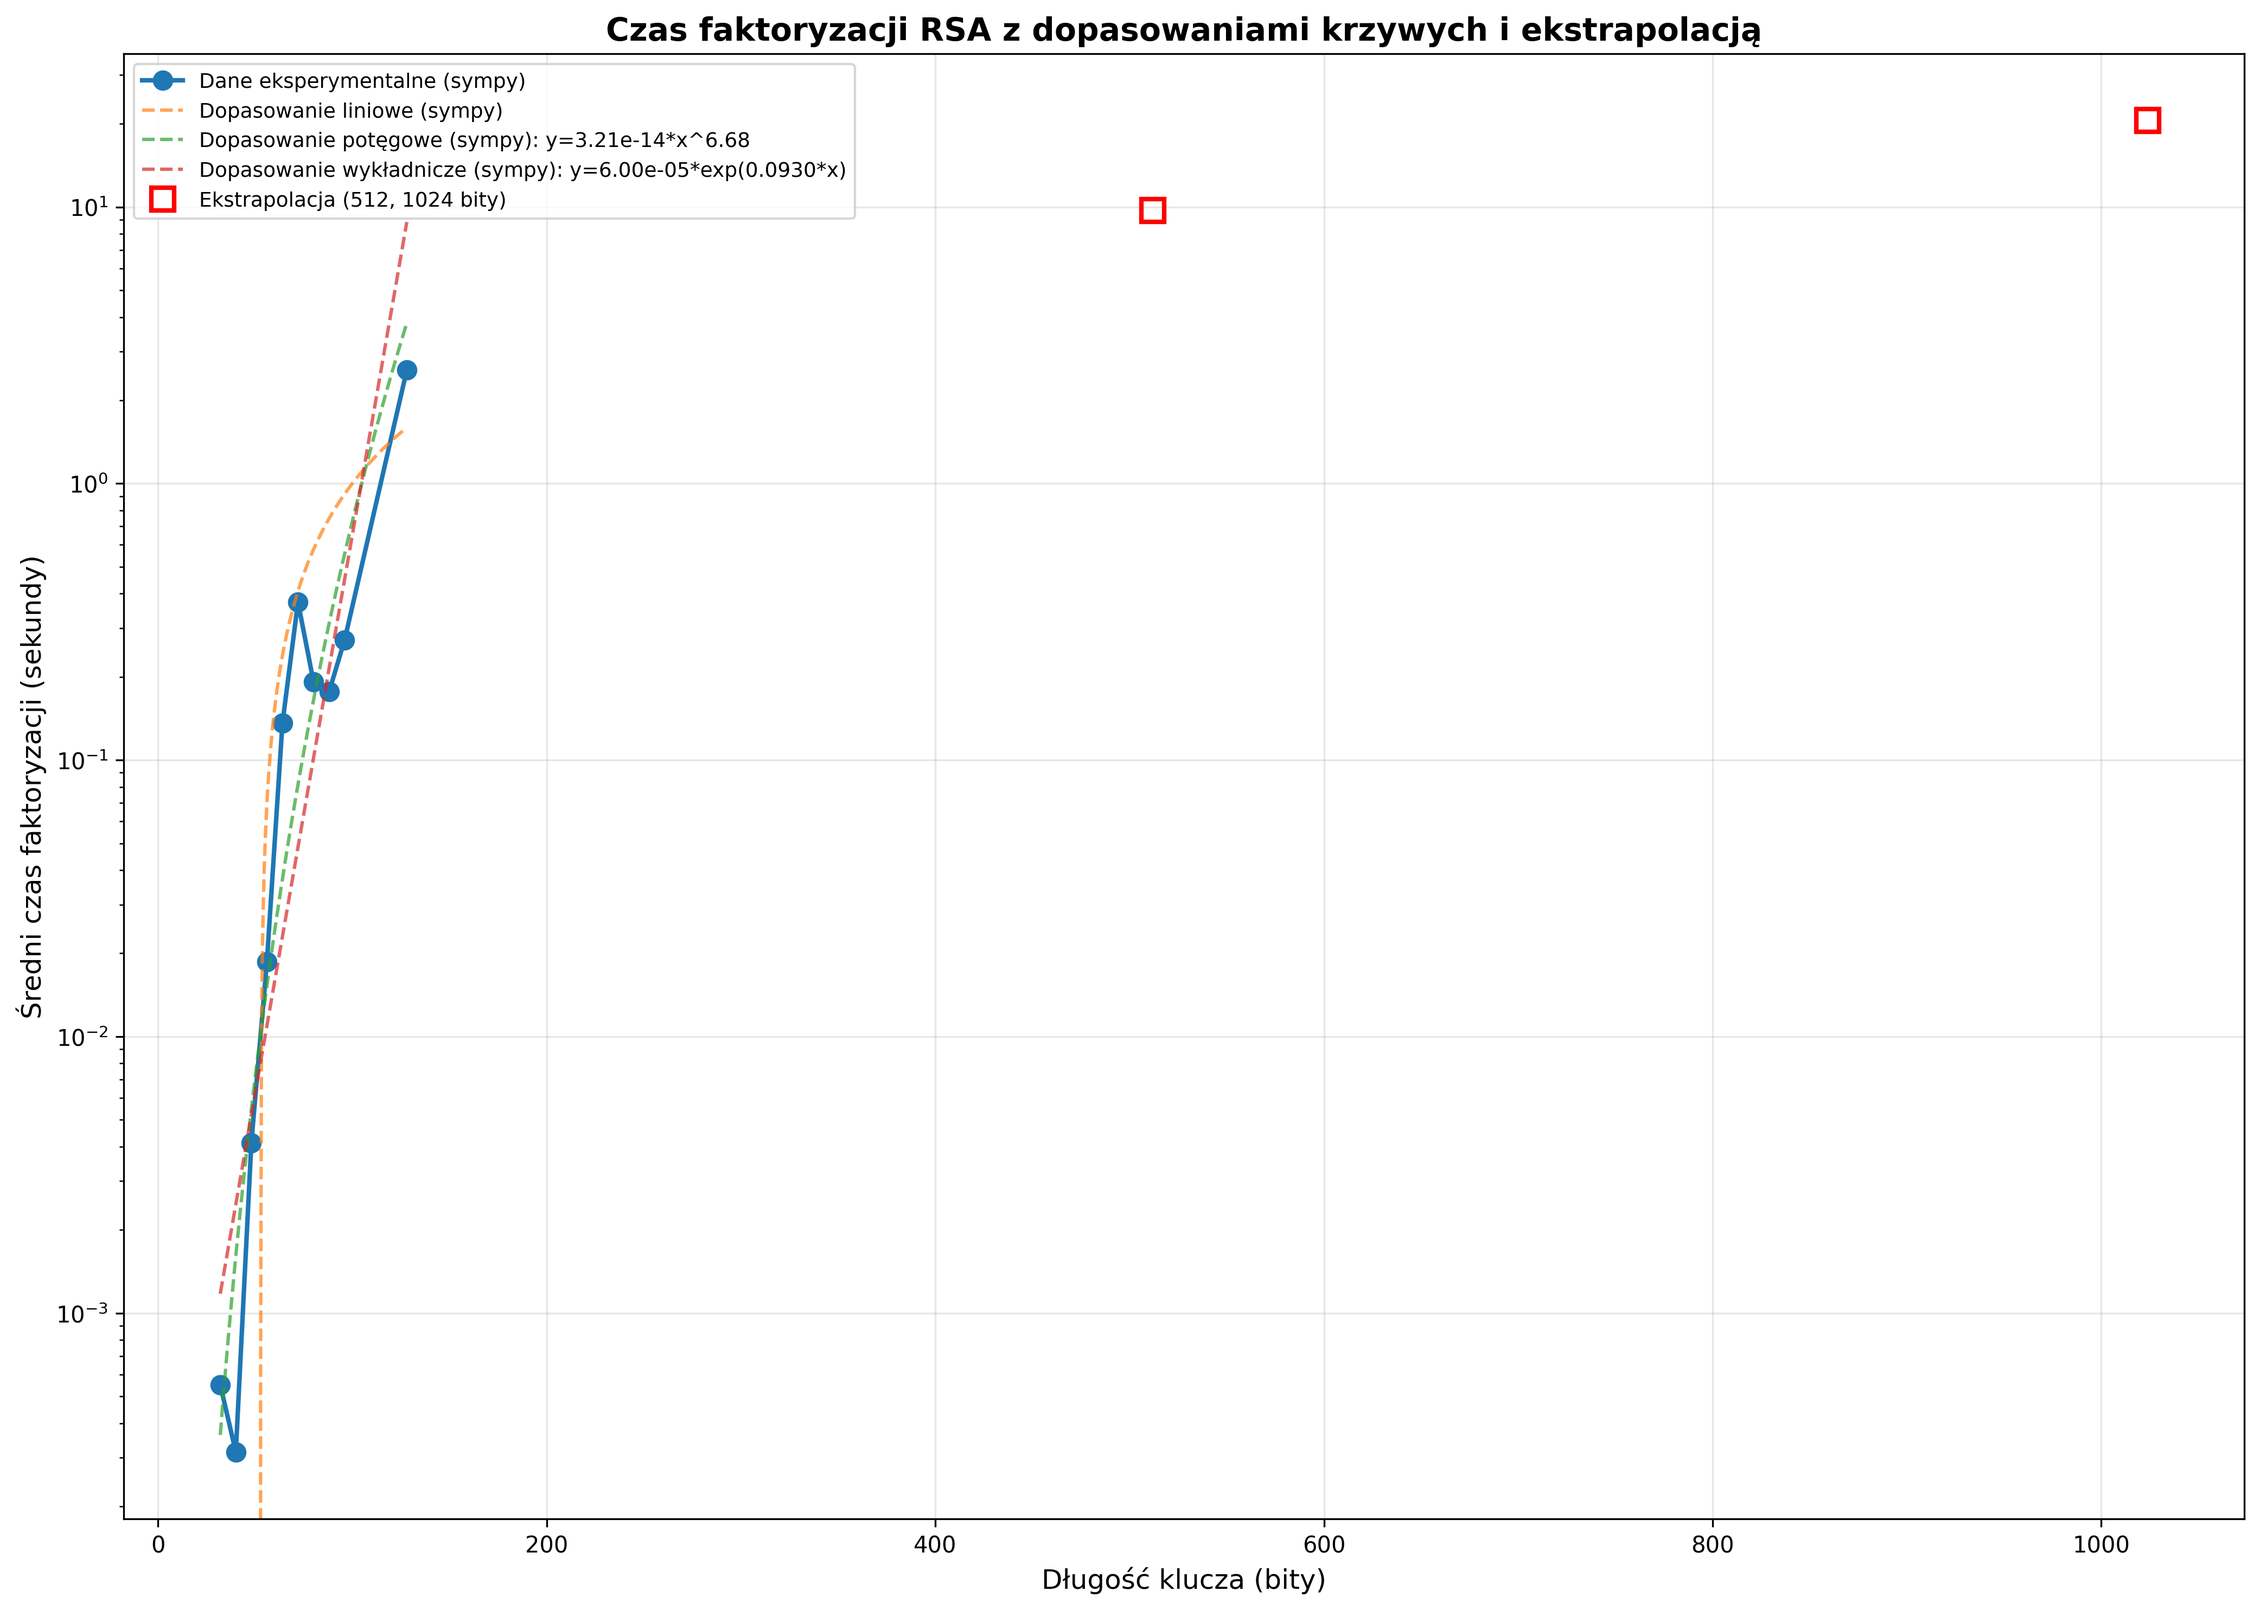
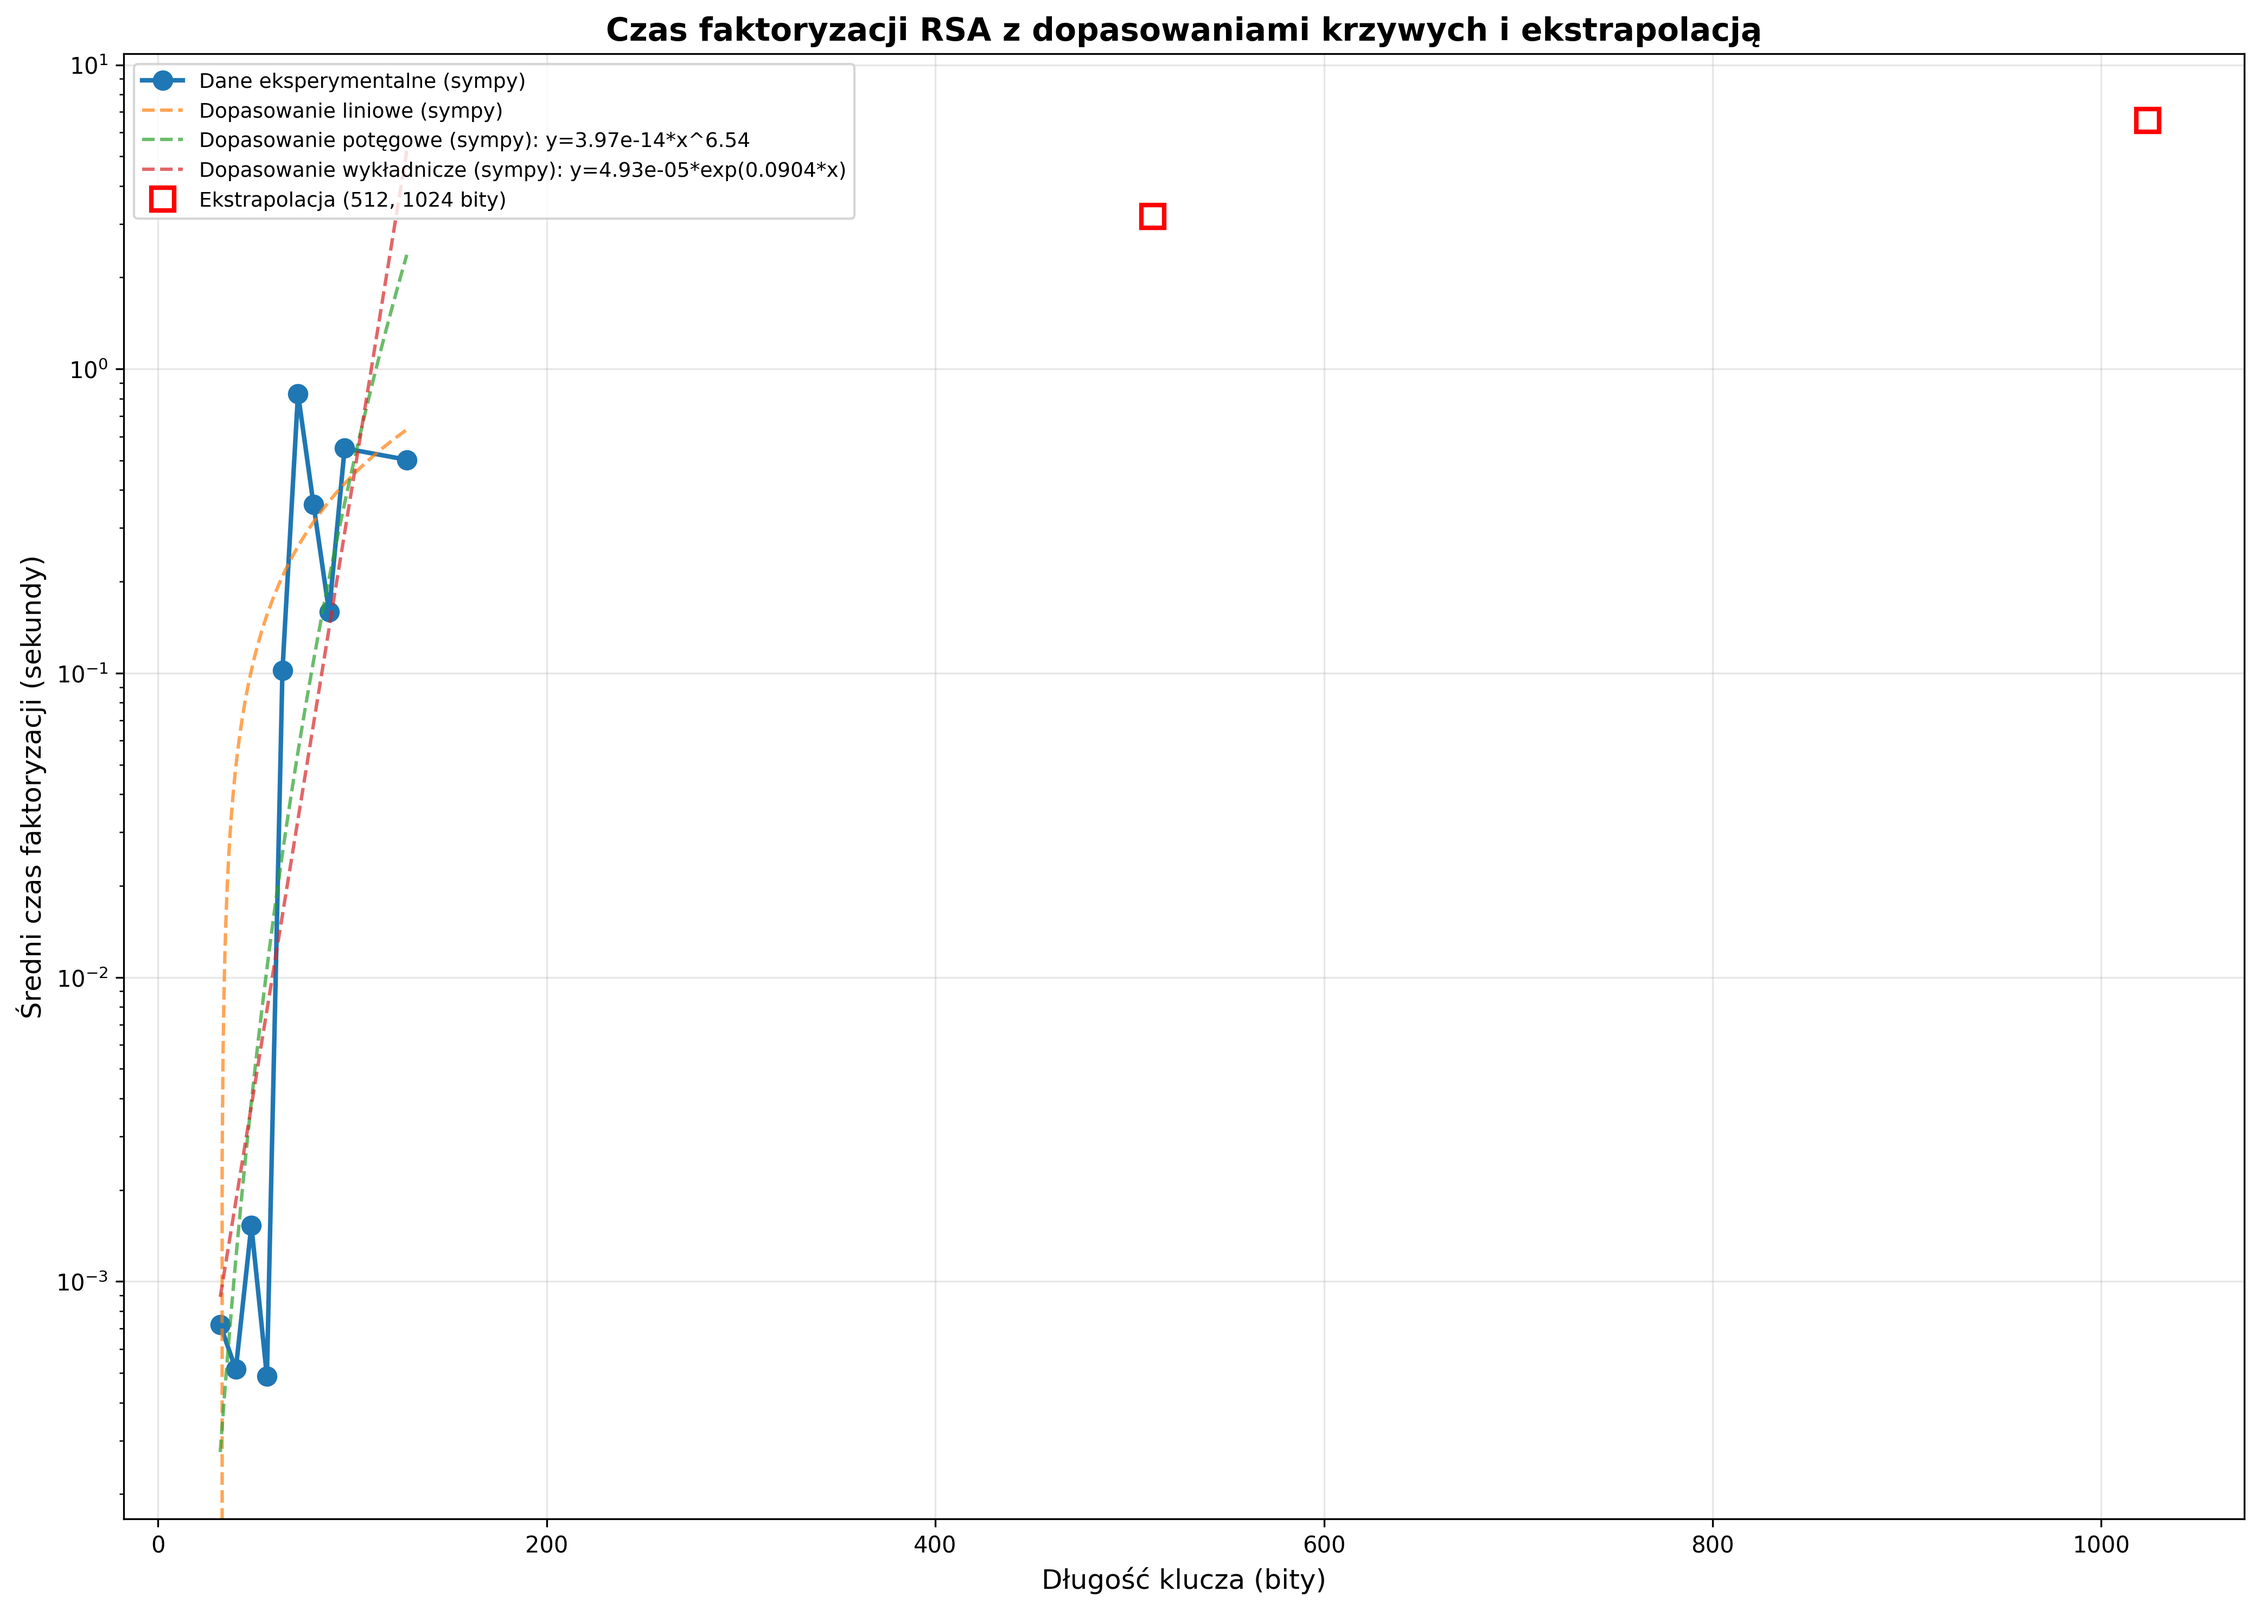
add calculate extrapolation func

Changed region(s): [[0.0936, 0.155, 0.1872, 0.9299], [0.4993, 0.124, 0.5305, 0.155]]

diff --git a/calculate_extrapolation.py b/calculate_extrapolation.py
@@ -1,0 +1,178 @@
+#!/usr/bin/env python3
+"""
+Skrypt do obliczenia ekstrapolacji dla 256 i 512 bitów na podstawie danych z CSV.
+"""
+
+import csv
+import numpy as np
+from collections import defaultdict
+
+def load_csv(filename):
+    """Wczytuje dane z pliku CSV."""
+    records = []
+    with open(filename, 'r', encoding='utf-8') as f:
+        reader = csv.DictReader(f)
+        for row in reader:
+            if int(row['success']) == 1:  # Tylko udane próbki
+                records.append({
+                    'bit_length': int(row['bit_length']),
+                    'method': row['method'],
+                    'time_sec': float(row['time_sec'])
+                })
+    return records
+
+def calculate_extrapolation(records):
+    """Oblicza ekstrapolacje dla 256 i 512 bitów."""
+    # Grupuj po metodzie
+    methods = sorted(set(r['method'] for r in records))
+    
+    for method in methods:
+        method_records = [r for r in records if r['method'] == method]
+        
+        # Grupuj po długości klucza i oblicz średnie
+        grouped = defaultdict(list)
+        for record in method_records:
+            grouped[record['bit_length']].append(record['time_sec'])
+        
+        # Oblicz średnie czasy
+        bit_lengths = sorted(grouped.keys())
+        avg_times = [np.mean(grouped[bl]) for bl in bit_lengths]
+        
+        # Konwertuj na numpy arrays
+        x_data = np.array(bit_lengths)
+        y_data = np.array(avg_times)
+        
+        print(f"\n{'='*60}")
+        print(f"EKSTRAPOLACJA DLA METODY: {method}")
+        print(f"{'='*60}")
+        print(f"\nDane eksperymentalne:")
+        for bl, time in zip(bit_lengths, avg_times):
+            print(f"  {bl} bitów: {time:.6e} s")
+        
+        # Dopasowania krzywych
+        try:
+            # 1. Dopasowanie liniowe: y = a*x + b
+            linear_coeffs = np.polyfit(x_data, y_data, 1)
+            linear_func = np.poly1d(linear_coeffs)
+            
+            # 2. Dopasowanie potęgowe: y = a * x^b
+            mask = (x_data > 0) & (y_data > 0)
+            if np.sum(mask) >= 3:
+                x_log = np.log(x_data[mask])
+                y_log = np.log(y_data[mask])
+                power_coeffs = np.polyfit(x_log, y_log, 1)
+                a_power = np.exp(power_coeffs[1])
+                b_power = power_coeffs[0]
+            else:
+                a_power, b_power = None, None
+            
+            # 3. Dopasowanie wykładnicze: y = a * exp(b*x)
+            mask = y_data > 0
+            if np.sum(mask) >= 3:
+                y_log = np.log(y_data[mask])
+                exp_coeffs = np.polyfit(x_data[mask], y_log, 1)
+                a_exp = np.exp(exp_coeffs[1])
+                b_exp = exp_coeffs[0]
+            else:
+                a_exp, b_exp = None, None
+            
+            # Ekstrapolacja dla 256 i 512 bitów
+            extrapolation_bits = [256, 512]
+            
+            # Przygotuj dane do tabeli
+            table_data = []
+            
+            for ext_bits in extrapolation_bits:
+                row = {'bits': ext_bits}
+                
+                # Liniowa
+                time_linear = linear_func(ext_bits)
+                if time_linear > 0:
+                    hours = time_linear / 3600
+                    days = time_linear / (3600 * 24)
+                    years = time_linear / (3600 * 24 * 365.25)
+                    if years >= 1:
+                        row['linear'] = f"{years:.2e} lat"
+                    elif days >= 1:
+                        row['linear'] = f"{days:.2f} dni"
+                    elif hours >= 1:
+                        row['linear'] = f"{hours:.2f} h"
+                    else:
+                        row['linear'] = f"{time_linear:.3f} s"
+                else:
+                    row['linear'] = "N/A"
+                
+                # Potęgowa
+                if a_power is not None and b_power is not None:
+                    time_power = a_power * (ext_bits ** b_power)
+                    if time_power > 0:
+                        hours = time_power / 3600
+                        days = time_power / (3600 * 24)
+                        years = time_power / (3600 * 24 * 365.25)
+                        if years >= 1:
+                            row['power'] = f"{years:.2e} lat"
+                        elif days >= 1:
+                            row['power'] = f"{days:.2f} dni"
+                        elif hours >= 1:
+                            row['power'] = f"{hours:.2f} h"
+                        else:
+                            row['power'] = f"{time_power:.3f} s"
+                    else:
+                        row['power'] = "N/A"
+                else:
+                    row['power'] = "N/A"
+                
+                # Wykładnicza
+                if a_exp is not None and b_exp is not None:
+                    time_exp = a_exp * np.exp(b_exp * ext_bits)
+                    if time_exp > 0:
+                        hours = time_exp / 3600
+                        days = time_exp / (3600 * 24)
+                        years = time_exp / (3600 * 24 * 365.25)
+                        if years >= 1:
+                            row['exp'] = f"{years:.2e} lat"
+                        elif days >= 1:
+                            row['exp'] = f"{days:.2f} dni"
+                        elif hours >= 1:
+                            row['exp'] = f"{hours:.2f} h"
+                        else:
+                            row['exp'] = f"{time_exp:.3f} s"
+                    else:
+                        row['exp'] = "N/A"
+                else:
+                    row['exp'] = "N/A"
+                
+                table_data.append(row)
+            
+            # Wyświetl tabelę
+            print(f"\n{'='*100}")
+            print(f"TABELA EKSTRAPOLACJI - METODA: {method.upper()}")
+            print(f"{'='*100}")
+            print(f"\n{'Długość klucza':<20} {'Model liniowy':<25} {'Model potęgowy':<25} {'Model wykładniczy':<25}")
+            print("-" * 100)
+            
+            for row in table_data:
+                print(f"{row['bits']:<20} {row['linear']:<25} {row['power']:<25} {row['exp']:<25}")
+            
+            print(f"\n{'='*100}")
+            print(f"Parametry modeli:")
+            print(f"  Potęgowy: y = {a_power:.2e} * x^{b_power:.2f}" if a_power is not None else "  Potęgowy: N/A")
+            print(f"  Wykładniczy: y = {a_exp:.2e} * exp({b_exp:.4f} * x)" if a_exp is not None else "  Wykładniczy: N/A")
+            print(f"{'='*100}")
+        
+        except Exception as e:
+            print(f"Błąd podczas obliczania ekstrapolacji: {e}")
+
+def main():
+    filename = "factorization_results.csv"
+    records = load_csv(filename)
+    
+    if not records:
+        print(f"Błąd: Brak danych w pliku {filename}")
+        return
+    
+    calculate_extrapolation(records)
+
+if __name__ == "__main__":
+    main()
+

diff --git a/rsa_implementation.py b/rsa_implementation.py
@@ -391,7 +391,7 @@ def decrypt_message_blocks(
 
 # Parametry eksperymentu
 BIT_LENGTHS = [32, 40, 48, 56, 64, 72, 80, 88, 96, 128,]
-SAMPLES_PER_SIZE = 5
+SAMPLES_PER_SIZE = 1
 
 
 @dataclass
@@ -670,8 +670,8 @@ def plot_factorization_results(records: List[FactorRecord], filename: str = "fac
             else:
                 a_exp, b_exp = None, None
             
-            # Ekstrapolacja dla 512 i 1024 bitów
-            extrapolation_bits = [512, 1024]
+            # Ekstrapolacja dla 256 i 512 bitów
+            extrapolation_bits = [256, 512]
             print(f"\n{'='*60}")
             print(f"EKSTRAPOLACJA DLA METODY: {method}")
             print(f"{'='*60}")
@@ -706,7 +706,7 @@ def plot_factorization_results(records: List[FactorRecord], filename: str = "fac
                     if not extrapolation_labeled:
                         plt.plot(ext_bits, linear_func(ext_bits), 's', color='red', 
                                 markersize=10, markerfacecolor='none', markeredgewidth=2, 
-                                label='Ekstrapolacja (512, 1024 bity)')
+                                label='Ekstrapolacja (256, 512 bity)')
                         extrapolation_labeled = True
                     else:
                         plt.plot(ext_bits, linear_func(ext_bits), 's', color='red', 

diff --git a/README.md b/README.md
@@ -93,7 +93,7 @@ Jeśli chcesz przetestować tylko mniejsze klucze, możesz zmodyfikować w kodzi
 
 ```python
 BIT_LENGTHS = [32, 40, 48, 56, 64]  # Tylko mniejsze klucze
-SAMPLES_PER_SIZE = 3  # Mniej próbek na długość
+SAMPLES_PER_SIZE = 1  # Mniej próbek na długość
 ```
 
 ## Wyjście
